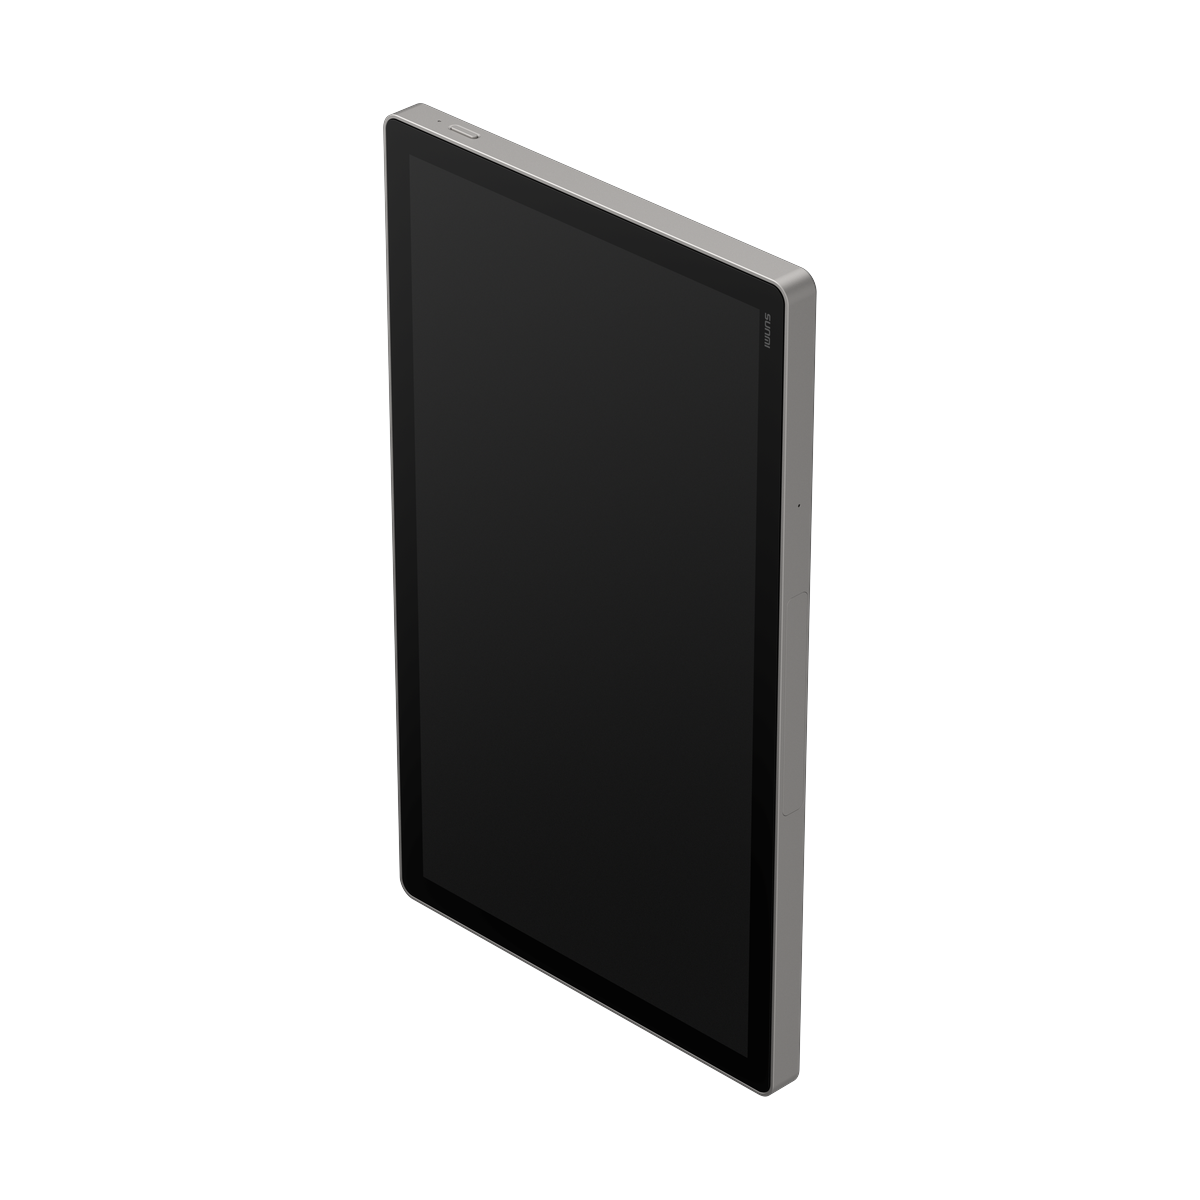
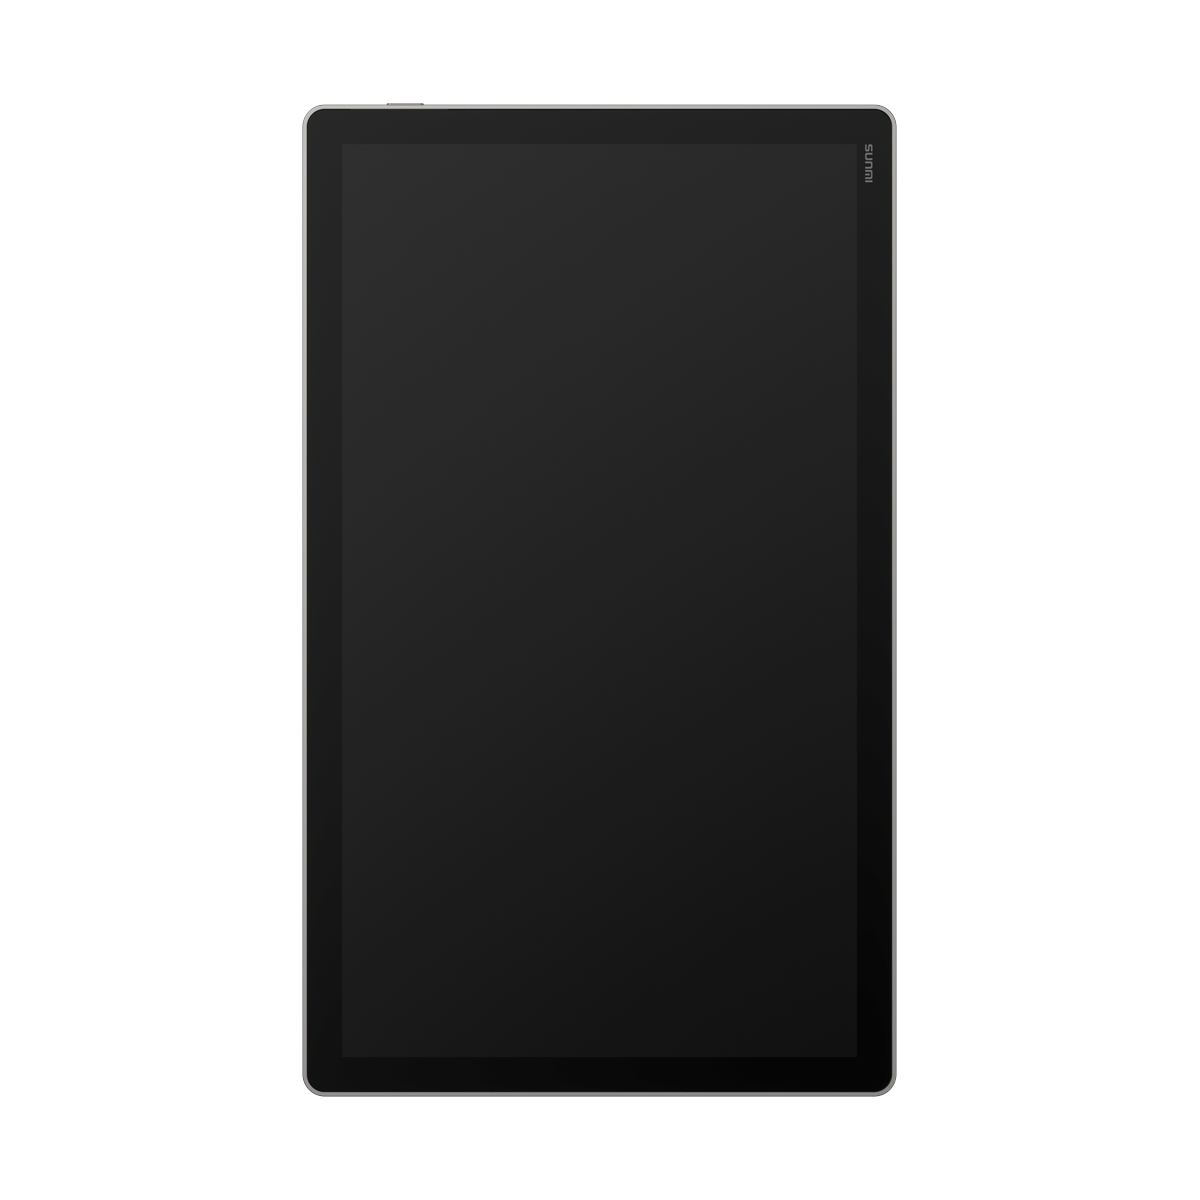
Menu Terminale: akcesoria POS i KDS na dole; FLEX 3 KDS: przód ekranu jako zdjęcie główne

Changed region(s): [[0.2467, 0.0617, 0.7708, 0.925]]

diff --git a/src/components/layout/Navbar.tsx b/src/components/layout/Navbar.tsx
@@ -53,9 +53,7 @@ const navigation: NavItem[] = [
     children: [
       { name: 'Wszystkie terminale', href: '/terminale-mobilne' },
       { name: 'Komputery POS', href: '/komputery-pos' },
-      { name: '— Akcesoria do komputerów POS', href: '/akcesoria-do-komputerow-pos' },
       { name: 'Ekrany KDS', href: '/ekrany-kds' },
-      { name: '— Akcesoria do ekranów KDS', href: '/akcesoria-do-ekranow-kds' },
       { name: 'Terminale RFID', href: '/terminale-rfid' },
       { name: 'Uchwyty RFID', href: '/uchwyty-rfid' },
       { name: 'Czytniki RFID', href: '/czytniki-rfid' },
@@ -71,6 +69,8 @@ const navigation: NavItem[] = [
       { name: '— Stacje dokujące i ładowarki', href: '/stacje-ladowarki-terminali' },
       { name: '— Etui, kabury i uchwyty', href: '/etui-kabury-uchwyty' },
       { name: '— Kable i zasilacze', href: '/kable-zasilacze-terminali' },
+      { name: 'Akcesoria do komputerów POS', href: '/akcesoria-do-komputerow-pos' },
+      { name: 'Akcesoria do ekranów KDS', href: '/akcesoria-do-ekranow-kds' },
     ],
   },
   {

diff --git a/src/data/sunmi-products.ts b/src/data/sunmi-products.ts
@@ -3414,8 +3414,8 @@ export const sunmiProducts: Product[] = [
       "/images/products/P11050019-8.png"
     ],
     "imageDescriptions": [
-      "SUNMI FLEX 3 KDS 15,6\" — widok z przodu z prawej strony, z góry: ekran dotykowy w aluminiowej obudowie, ustawiony pionowo",
       "SUNMI FLEX 3 KDS 15,6\" — widok z przodu: ekran dotykowy FHD, ustawiony pionowo",
+      "SUNMI FLEX 3 KDS 15,6\" — widok z przodu z prawej strony, z góry: ekran dotykowy w aluminiowej obudowie, ustawiony pionowo",
       "SUNMI FLEX 3 KDS 15,6\" — widok z przodu z lewej strony, z góry",
       "SUNMI FLEX 3 KDS 15,6\" — widok z tyłu: tylna obudowa z logo SUNMI",
       "SUNMI FLEX 3 KDS 15,6\" — widok z tyłu z prawej strony, z góry",
